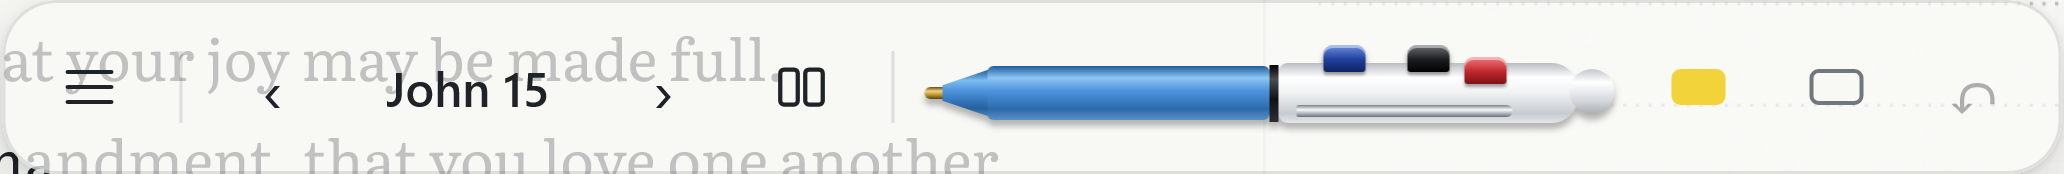
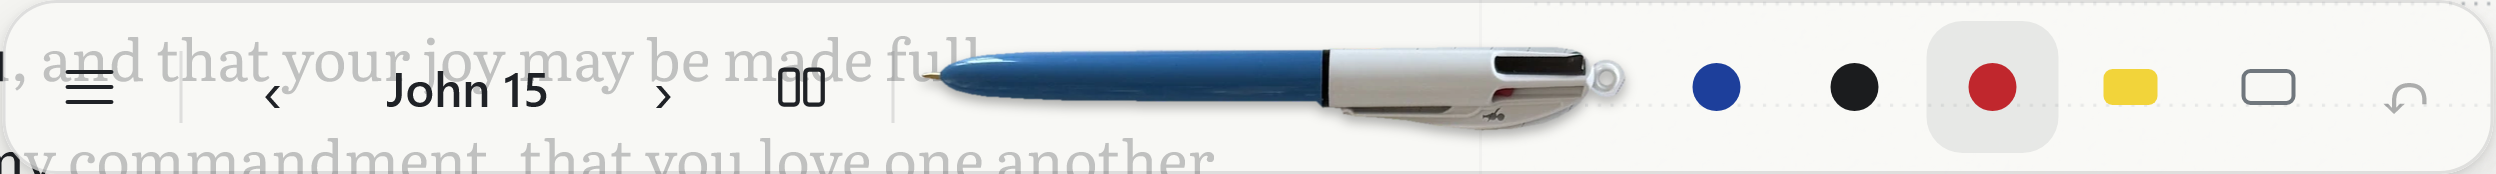
Show Darrell's own pens: cut out of the family's photographs
The user, on the drawn pens: "that one is worse... search some real
pictures of that pen maybe and use one?". Product photographs from the
web belong to BIC or their photographers, so not those: the user's own
photographs of their father's pens were used instead (cut out, levelled,
3x the toolbar size, WebP, 11-12 KB each, in public/pens/). His blue
three-colour BIC on the Notebook; his fountain pen on its sibling.

The colours are ink dots beside the photographed BIC, each the same named
button as before. Sliders drawn onto the photograph never looked right
("it keeps messing up the sliders LOL"): first floating above the body,
then sitting on its real window. The photograph is left as it is.

Also reverted: the more "lifelike" drawn refinement (the user: worse).
Also fixed: "reading to the end of the chapter keeps the notes in view"
scrolled once, before the Bible column had measured its full height, and
stayed at the top (failed in CI on #20, both iPads, screenshot still at
verse 1); it now scrolls until the end is reached.

Evidence: the image loads (naturalWidth > 600, checked: a missing file
would leave an empty gap silently). Screenshots retaken headless.

Not done: the fountain pen's cap engraving shows as photographed.

diff --git a/src/index.css b/src/index.css
@@ -474,71 +474,25 @@ button:disabled { opacity: 0.35; cursor: default; }
 .nib-highlighter { width: 18px; height: 12px; background: #f2d43a; border-radius: 3px; }
 .nib-eraser { width: 18px; height: 12px; background: var(--slip); border: 1.5px solid var(--muted); border-radius: 3px; }
 /*
- * The paper style's own pen, drawn in the toolbar (PenArt.tsx). Every part is a cylinder
- * lit from above: a gradient from shadow, to a highlight a quarter of the way down, to
- * shadow, with a little light reflected back along the underside. The drop shadow sets
- * it on the glass.
+ * The paper style's own pen in the toolbar (PenArt.tsx): a photograph of Darrell's own
+ * pen, cut out, at three times this size for sharp screens. It rests on the glass with
+ * a soft shadow beneath, not an outline.
  */
-.pen-art { position: relative; display: inline-block; width: 236px; height: 44px; flex: none; filter: drop-shadow(0 2px 1.5px rgba(0, 0, 0, 0.28)); }
-.pen-art > span { position: absolute; display: block; }
-/* The multi-colour ballpoint (Darrell's blue three-colour BIC): brass point, blue cone and
-   barrel, white body, chrome clip. */
-.bic-point { left: 2px; top: 22px; width: 7px; height: 4px; border-radius: 2px 0 0 2px;
-  background: linear-gradient(to bottom, #6b4e12, #f1d27b 35%, #b48a2c 70%, #5c430f); }
-.bic-cone { left: 8px; top: 16px; width: 16px; height: 16px; clip-path: polygon(0 34%, 100% 0, 100% 100%, 0 66%);
-  background: linear-gradient(to bottom, #1d5694 0%, #7bbcf0 24%, #4a90d9 48%, #23609f 82%, #4f86bd 100%); }
-.bic-barrel { left: 23px; top: 15px; width: 94px; height: 18px; border-radius: 2px;
-  background: linear-gradient(to bottom, #1f5c9e 0%, #8cc6f3 22%, #4d94dc 46%, #2b6aab 80%, #5b90c6 100%); }
-.bic-band { left: 117px; top: 14.5px; width: 3px; height: 19px;
-  background: linear-gradient(to bottom, #000, #4a4c50 25%, #111 60%, #2b2d30); }
-.bic-body { left: 120px; top: 14px; width: 100px; height: 20px; border-radius: 3px 9px 9px 3px;
-  background: linear-gradient(to bottom, #b9bdc2 0%, #ffffff 24%, #f2f3f4 48%, #c7cbd0 84%, #e4e6e8 100%); }
-.bic-clip { left: 126px; top: 28px; width: 72px; height: 4px; border-radius: 1px 3px 3px 1px;
-  background: linear-gradient(to bottom, #7d8288, #f7f9fb 40%, #a3a9af 75%, #6c7177); }
-.bic-loop { left: 217px; top: 16px; width: 15px; height: 15px; border-radius: 50%;
-  border: 3.5px solid transparent; box-sizing: border-box;
-  background: linear-gradient(#0000, #0000) padding-box, linear-gradient(to bottom, #c3c7cc, #fff 30%, #d5d8dc 70%, #a9aeb4) border-box; }
-/* Each slider: a coloured tab in its slot on the body; a hit area the toolbar's height. */
-.bic-slider { position: absolute; top: 0; width: 24px; height: 44px; padding: 0; border: 0; background: none; cursor: pointer; }
-.bic-slider:focus-visible { outline: 2px solid var(--accent); outline-offset: -2px; border-radius: 8px; }
-.bic-tab {
-  position: absolute; left: 5px; top: 8px; width: 14px; height: 9px; border-radius: 3px 3px 1px 1px;
-  box-shadow: inset 0 1px 0 rgba(255, 255, 255, 0.45), 0 1px 1px rgba(0, 0, 0, 0.35);
-  transition: transform 0.16s cubic-bezier(0.2, 0.8, 0.2, 1);
+.pen-art { position: relative; display: inline-block; width: 236px; height: 44px; flex: none; }
+.pen-photo {
+  position: absolute; left: 0; top: 50%; width: 236px; height: auto; transform: translateY(-50%);
+  pointer-events: none; user-select: none; -webkit-user-select: none;
+  filter: drop-shadow(0 2.5px 2px rgba(0, 0, 0, 0.3));
 }
-.bic-pen .bic-tab { background: linear-gradient(to bottom, #6f8fe0, #1d3f9b 55%, #102463); }
-.bic-black .bic-tab { background: linear-gradient(to bottom, #6b6e73, #1b1c1e 55%, #000); }
-.bic-red .bic-tab { background: linear-gradient(to bottom, #f07a7e, #c0272d 55%, #7d1216); }
-.bic-green .bic-tab { background: linear-gradient(to bottom, #6fcf8e, #1d7a3c 55%, #0c4720); }
-/* Clicked down: toward the point and into the body, as the real pen's slider goes. */
-.bic-slider[aria-pressed='true'] .bic-tab { transform: translate(-9px, 4px); }
-.bic-slider:hover .bic-tab { transform: translateY(1px); }
-.bic-slider[aria-pressed='true']:hover .bic-tab { transform: translate(-9px, 4px); }
-
-/* The fountain pen: gold nib, black section and lacquered barrel, gold ring, an engraved
-   silver cap with a gold clip and finial. */
+/* The three-colour pen: the photograph, then its colours as ink dots. */
+.pen-art.bic { width: auto; display: inline-flex; align-items: center; gap: 2px; }
+.pen-art.bic .pen-photo { position: static; transform: none; margin-right: 6px; }
+/* The fountain pen is one button: the pen. */
 .fountain { padding: 0; border: 0; background: none; cursor: pointer; border-radius: 10px; }
 .fountain:focus-visible { outline: 2px solid var(--accent); outline-offset: 0; }
 .fountain[aria-pressed='true'] { background: color-mix(in srgb, var(--slip-ink) 9%, transparent); }
-.fp-nib { left: 3px; top: 17px; width: 22px; height: 14px; clip-path: polygon(0 50%, 100% 0, 100% 100%);
-  background: linear-gradient(to bottom, #7a5a14, #f6dc8c 30%, #c99c38 58%, #6e5112); }
-.fp-section { left: 24px; top: 16px; width: 22px; height: 16px; border-radius: 3px 2px 2px 3px;
-  background: linear-gradient(to bottom, #000, #55585e 22%, #17181a 46%, #000 82%, #2c2e32); }
-.fp-barrel { left: 46px; top: 14px; width: 100px; height: 20px; border-radius: 2px;
-  background: linear-gradient(to bottom, #000 0%, #6a6d74 18%, #1a1b1e 42%, #050506 80%, #34363b 100%); }
-.fp-ring { left: 146px; top: 13.5px; width: 7px; height: 21px;
-  background: linear-gradient(to bottom, #6e5112, #fbe39a 28%, #c99c38 60%, #6e5112); }
-.fp-cap { left: 153px; top: 13px; width: 76px; height: 22px; border-radius: 2px 8px 8px 2px;
-  background:
-    /* A fine cross-hatch, as engraving is cut; one direction alone read as stripes. */
-    repeating-linear-gradient(62deg, rgba(40, 44, 50, 0.12) 0 0.6px, transparent 0.6px 2px),
-    repeating-linear-gradient(118deg, rgba(40, 44, 50, 0.14) 0 0.6px, transparent 0.6px 2px),
-    linear-gradient(to bottom, #7f848a 0%, #f5f7f9 24%, #c4c8cd 50%, #7a7f85 86%, #b2b6bb 100%); }
-.fp-clip { left: 160px; top: 9px; width: 60px; height: 5px; border-radius: 2px 3px 1px 1px;
-  background: linear-gradient(to bottom, #fbe39a, #c99c38 55%, #6e5112); }
-.fp-finial { left: 228px; top: 16px; width: 6px; height: 16px; border-radius: 0 4px 4px 0;
-  background: linear-gradient(to bottom, #6e5112, #fbe39a 28%, #c99c38 60%, #6e5112); }
-@media (prefers-reduced-motion: reduce) { .bic-tab { transition: none; } }
+/* Narrower screens: a slightly smaller pen, so the toolbar still fits an upright iPad. */
+@media (max-width: 999px) { .pen-photo { width: 200px; } .pen-art.fountain { width: 200px; } }
 
 /* An Apple Pencil always writes and a finger never does, so a touch device has no
    use for "Read"; it exists for the mouse. */

diff --git a/src/views/PenArt.tsx b/src/views/PenArt.tsx
@@ -1,43 +1,24 @@
 import type { Tool } from '../lib/studies';
 
 /**
- * The paper style's own pen, drawn as the pen itself in the toolbar: the multi-colour
- * ballpoint whose sliders choose the colour (Darrell's blue three-colour BIC), or the
- * fountain pen. Built from shaded
- * shapes (CSS gradients lit from above, as a cylinder is), so each slider is a real
- * button: reachable by keyboard and screen reader, with the same names as the plain
- * pens ("Black pen"), and a hit area as tall as the toolbar, wider than the slider.
+ * The paper style's own pen in the toolbar: Darrell's own pens, cut from the family's
+ * photographs of them (public/pens/), so they look like the pens he writes with, not
+ * drawings of pens. A drawn version came first and wasn't lifelike enough.
+ *
+ * The three-colour ballpoint's colours are ink dots beside it, each a real button named
+ * as the plain pens are ("Black pen"). Sliders drawn onto the photograph never looked
+ * right (they floated, or sat on the real ones), so the photograph is left as it is.
  */
 const LABEL: Partial<Record<Tool, string>> = { pen: 'Pen', black: 'Black pen', red: 'Red pen', green: 'Green pen' };
 const COUNT = ['', 'One', 'Two', 'Three', 'Four'];
 
-/** A multi-colour ballpoint, with a slider for each of its colours: Darrell's has three. */
 export function MultiColourPen({ colours, choice, choose }: { colours: Tool[]; choice: string; choose: (t: Tool) => void }) {
-  // The sliders sit across the white body, evenly spaced however many there are.
-  const gap = colours.length > 3 ? 24 : 28;
-  const start = 120 + (100 - 14 - gap * (colours.length - 1)) / 2 - 5;
   return (
     <span className="pen-art bic" role="group" aria-label={`${COUNT[colours.length]}-colour pen`}>
-      <span className="bic-point" aria-hidden="true" />
-      <span className="bic-cone" aria-hidden="true" />
-      <span className="bic-barrel" aria-hidden="true" />
-      <span className="bic-band" aria-hidden="true" />
-      <span className="bic-body" aria-hidden="true" />
-      <span className="bic-clip" aria-hidden="true" />
-      <span className="bic-loop" aria-hidden="true" />
-      {colours.map((tool, i) => (
-        <button
-          key={tool}
-          type="button"
-          className={`bic-slider bic-${tool}`}
-          style={{ left: start + i * gap }}
-          aria-pressed={choice === tool}
-          aria-label={LABEL[tool]}
-          title={LABEL[tool]}
-          onClick={() => choose(tool)}
-        >
-          {/* Clicked down: the slider moves toward the point, as the real one does. */}
-          <span className="bic-tab" aria-hidden="true" />
+      <img className="pen-photo" src="pens/bic-three-colour.webp" alt="" draggable={false} />
+      {colours.map((tool) => (
+        <button key={tool} type="button" className="tb-icon ink-dot" aria-pressed={choice === tool} aria-label={LABEL[tool]} title={LABEL[tool]} onClick={() => choose(tool)}>
+          <span className={`nib nib-${tool}`} aria-hidden="true" />
         </button>
       ))}
     </span>
@@ -47,13 +28,7 @@ export function MultiColourPen({ colours, choice, choose }: { colours: Tool[]; c
 export function FountainPen({ pressed, choose }: { pressed: boolean; choose: () => void }) {
   return (
     <button type="button" className="pen-art fountain" aria-pressed={pressed} aria-label="Pen" title="Pen" onClick={choose}>
-      <span className="fp-nib" aria-hidden="true" />
-      <span className="fp-section" aria-hidden="true" />
-      <span className="fp-barrel" aria-hidden="true" />
-      <span className="fp-ring" aria-hidden="true" />
-      <span className="fp-cap" aria-hidden="true" />
-      <span className="fp-clip" aria-hidden="true" />
-      <span className="fp-finial" aria-hidden="true" />
+      <img className="pen-photo" src="pens/fountain.webp" alt="" draggable={false} />
     </button>
   );
 }

diff --git a/e2e/notebook.spec.ts b/e2e/notebook.spec.ts
@@ -67,19 +67,18 @@ test.describe('the Notebook', () => {
   });
 });
 
-test.describe('the pen, drawn in the toolbar', () => {
-  test('the three-colour pen is the colour picker: a colour chosen clicks its slider down', async ({ page }, info) => {
+test.describe('his pen, in the toolbar', () => {
+  test('shows a photograph of his three-colour pen, with its three colours beside it', async ({ page }, info) => {
     noPens(info.project.name);
     await beginStudy(page, 'John', 15);
     const pen = page.getByRole('group', { name: 'Three-colour pen' });
     await expect(pen).toBeVisible();
-    // Its colours are its sliders, not dots beside it.
-    await expect(page.locator('.tb-pens .nib-red')).toHaveCount(0);
+    // The photograph itself loaded: a missing file would leave an empty gap, silently.
+    await expect.poll(() => pen.locator('img').evaluate((img: HTMLImageElement) => img.complete && img.naturalWidth)).toBeGreaterThan(600);
     await expect(pen.getByRole('button')).toHaveCount(3);
     const red = pen.getByRole('button', { name: 'Red pen', exact: true });
     await red.click();
     await expect(red).toHaveAttribute('aria-pressed', 'true');
-    await expect.poll(() => red.locator('.bic-tab').evaluate((el) => getComputedStyle(el).transform)).not.toBe('none');
   });
 
   test('the fountain pen style draws its fountain pen, which is its pen', async ({ page }, info) => {
@@ -88,6 +87,7 @@ test.describe('the pen, drawn in the toolbar', () => {
     await beginStudy(page, 'John', 15);
     const pen = page.getByRole('button', { name: 'Pen', exact: true });
     await expect(pen).toHaveClass(/fountain/);
+    await expect.poll(() => pen.locator('img').evaluate((img: HTMLImageElement) => img.complete && img.naturalWidth)).toBeGreaterThan(600);
     await pen.click();
     await expect(pen).toHaveAttribute('aria-pressed', 'true');
   });

diff --git a/e2e/workspace.spec.ts b/e2e/workspace.spec.ts
@@ -17,8 +17,14 @@ test.describe('the workspace', () => {
     await beginStudy(page, 'John', 15);
     const bible = page.getByRole('region', { name: 'Bible', exact: true });
     const notes = page.getByLabel('Notes', { exact: true });
-    await bible.evaluate((el) => el.scrollTo(0, el.scrollHeight));
-    await expect(page.locator('.scripture .v').last()).toBeInViewport();
+    // Scrolled until the end is reached, not once: the Bible column measures its full
+    // height a frame after the text appears, and a single scroll made before that went
+    // to the bottom of a column still short, and stayed there (failed in CI on #20,
+    // both iPad sizes, the screenshot still at verse 1).
+    await expect(async () => {
+      await bible.evaluate((el) => el.scrollTo(0, el.scrollHeight));
+      await expect(page.locator('.scripture .v').last()).toBeInViewport({ timeout: 500 });
+    }).toPass();
     await expect(notes).toBeInViewport();
   });
 
